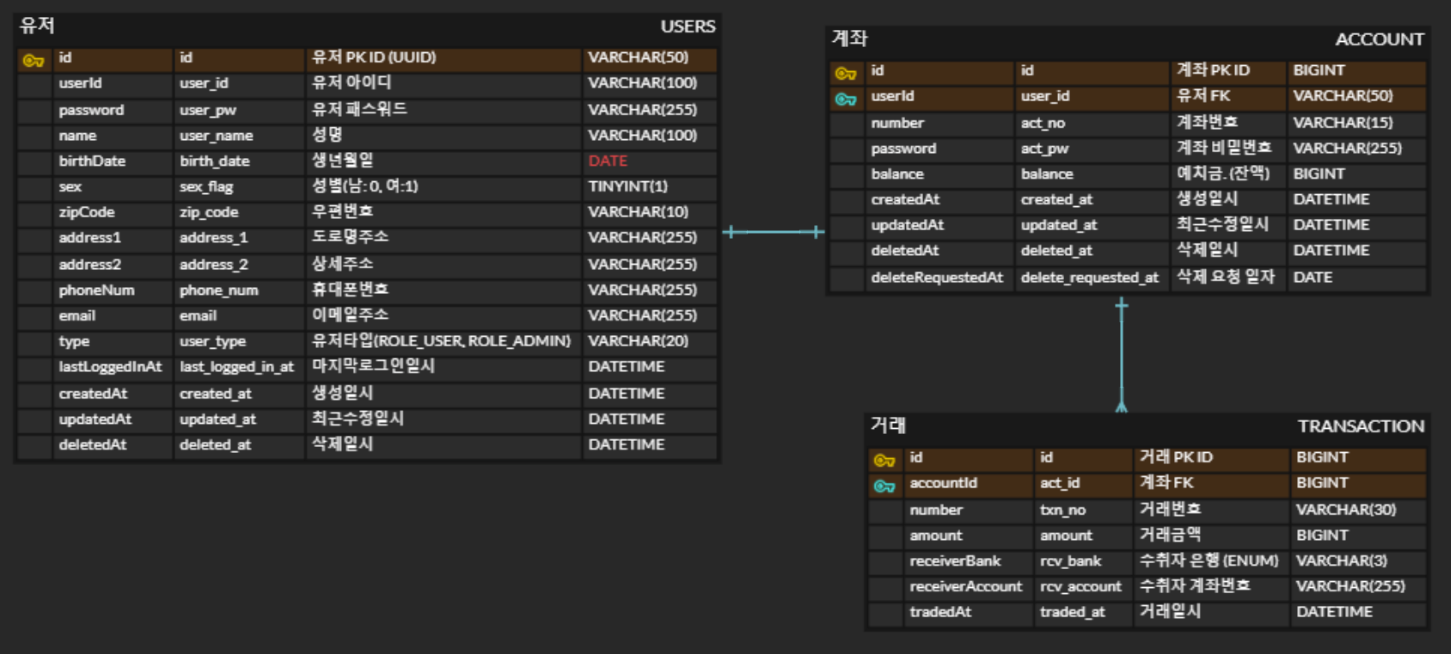
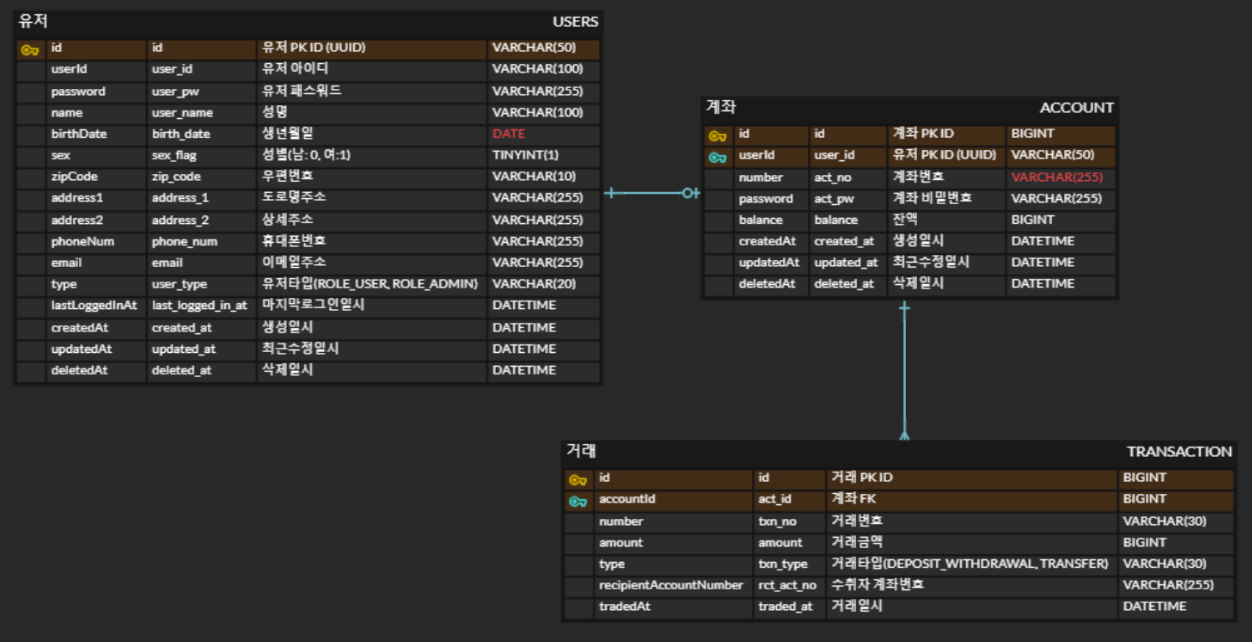
Add API specification for added Account service (#12)

Changed region(s): [[0.0, 0.0, 0.9968, 0.9657], [0.5919, 0.6231, 0.623, 0.6542], [0.5607, 0.0312, 0.5919, 0.0623]]

diff --git a/docs/API_Specification.md b/docs/API_Specification.md
@@ -48,7 +48,7 @@ API의 자세한 정보를 보고 싶다면, 각 API 좌측에 위치한 토글 
   - 없음
 - 요청/응답 구조
   - 요청
-  ```json
+  ```
   GET /api/v1/sign-up/check-id?key={userId}
   "userId": "testerid"
     ```
@@ -148,7 +148,7 @@ API의 자세한 정보를 보고 싶다면, 각 API 좌측에 위치한 토글 
 ### 검토한 정보
 ```
 - POST /api/v1/sign-up
-- 파라미터: 아이디, 패스워드, 성명, 생년월일(yyyy-MM-dd), 도로명주소, 상세주소, 휴대폰번호, 이메일주소
+- 파라미터: 아이디, 패스워드, 성명, 생년월일(yyyy-MM-dd), 성별, 도로명주소, 상세주소, 휴대폰번호, 이메일주소
 - 정책
   - 실패 응답 정책
     - 아이디가 이미 존재하는 경우 -> 400 BadRequest
@@ -164,7 +164,7 @@ API의 자세한 정보를 보고 싶다면, 각 API 좌측에 위치한 토글 
 
 ### 상세 검토
 - 저장이 필요한 정보
-  - USER 엔티티 (아이디, 패스워드, 성명, 생년월일, 도로명주소, 상세주소, 휴대폰번호, 이메일주소)
+  - USER 엔티티 (아이디, 패스워드, 성명, 생년월일, 성별, 도로명주소, 상세주소, 휴대폰번호, 이메일주소)
   - USER.생성일시 -> 서버 현재시간
   - USER.휴대폰번호 -> encrypt
 - 요청/응답 구조
@@ -175,6 +175,7 @@ API의 자세한 정보를 보고 싶다면, 각 API 좌측에 위치한 토글 
     "password": "test1234!",
     "userName": "tester",
     "birthDate": "1997-01-01",
+    "sex": false, // false: male, true: female
     "address1": "서울특별시 강남구 도산대로 18길",
     "address2": "10001호",
     "phoneNum": "01012341234",
@@ -226,6 +227,227 @@ API의 자세한 정보를 보고 싶다면, 각 API 좌측에 위치한 토글 
       "accessToken": "Bearer token",
       "refreshToken": "Bearer token",
       "lastLoggedInAt": "2023-07-01T12:12:00.123123"
+    }
+    ```
+</details>
+
+## 계좌 관련 API
+
+<!-- 계좌 생성 API -->
+<br>
+<details>
+<summary style="font-size: large; font-weight: bold">계좌 생성 API</summary>
+
+### 검토한 정보
+```
+- POST /api/v1/accounts
+- 파라미터: 액세스 토큰, 계좌 비밀번호, 초기 예치금 
+- 정책
+  - 실패 응답 정책
+    - 액세스토큰이 없거나 유효하지 않은 경우 -> 401 Unauthorized
+    - 탈퇴된 유저인 경우 -> 401 Unauthorized
+    - 파라미터(계좌 비밀번호)가 없는 경우 -> 400 BadRequest
+    - 계좌 비밀번호가 4자리의 숫자가 아닌 경우 -> 400 BadRequest
+    - 계좌 비밀번호가 중복된 수가 나열되어 있는 경우 -> 400 BadRequest
+    - 해당 유저가 이미 계좌를 보유하고 있는 경우 -> 400 BadRequest
+- 성공 응답: 유저정보(성명, 휴대폰번호, 이메일, 생성일시), 계좌정보(계좌번호, 잔액, 생성일시)
+```
+
+### 상세 검토
+- 저장이 필요한 정보
+  - 계좌번호 생성 (14자리 랜덤 수)
+  - 계좌비밀번호 암호화
+  - ACCOUNT 엔티티 (계좌번호, 계좌비밀번호, 잔액, 생성일시, 최근수정일시)
+- 요청/응답 구조
+  - 요청
+    ```json
+    // HEADER
+    {
+      "Authorization": "Bearer access_token"
+    }
+    // BODY
+    {
+      "accountPassword": "1234",
+      "initialBalance": 10000
+    }
+    ```
+  - 응답
+    ```json
+    {
+      "user": {
+        "name": "테스터",
+        "phoneNum": "01012341234",
+        "email": "tester@test.com",
+        "createdAt": "2023-07-01T12:12:00.123123"
+      },
+      "account": {
+        "number": "12345678901234",
+        "balance": 10000,
+        "createdAt": "2023-07-01T12:12:00.123123"
+      }
+    }
+    ```
+</details>
+
+<!-- 계좌 삭제 API -->
+<br>
+<details>
+<summary style="font-size: large; font-weight: bold">계좌 삭제 API</summary>
+
+### 검토한 정보
+```
+- DELETE /api/v1/accounts
+- 파라미터: 액세스토큰, 계좌번호, 계좌비밀번호
+- 정책
+  - 실패 응답 정책
+    - 액세스토큰이 없거나 유효하지 않은 경우 -> 401 Unauthorized
+    - 이미 탈퇴된 유저인 경우 -> 401 Unauthorized
+    - 파라미터(계좌번호, 계좌비밀번호)가 없는 경우 -> 400 BadRequest
+    - 해당 유저의 계좌의 계좌번호와 요청 계좌번호가 일치하지 않는 경우 -> 403 Forbidden
+    - 해당 유저의 계좌의 계좌비밀번호와 요청 계좌비밀번호가 일치하지 않는 경우 -> 403 Forbidden
+    - 해당 유저의 계좌의 잔액이 0원이 초과할 경우 -> 400 BadRequest
+    - 이미 삭제된 계좌인 경우 -> 404 NotFound
+- 성공 응답: 계좌정보(계좌번호, 생성일시, 삭제일시) 
+```
+
+### 상세 검토
+- 저장이 필요한 정보
+  - ACCOUNT.삭제일시 -> 서버 현재시간
+- 요청/응답 구조
+  - 요청
+    ```json
+    // HEADER
+    {
+      "Authorization": "Bearer access_token"
+    }
+    // BODY
+    {
+      "accountNumber": "12345678901234",
+      "accountPassword": "1234"
+    }
+    ```
+  - 응답
+    ```json
+    {
+      "accountNumber": "12345678901234",
+      "createdAt": "2023-07-01T12:12:00.123123",
+      "deletedAt": "2023-07-01T12:12:00.123123"
+    }
+    ```
+</details>
+
+<!-- 계좌 입금 API -->
+<br>
+<details>
+<summary style="font-size: large; font-weight: bold">계좌 입금 API</summary>
+
+### 검토한 정보
+```
+- POST /api/v1/deposit
+- 파라미터: 액세스토큰, 계좌번호, 입금액
+- 정책
+  - 실패 응답 정책
+    - 액세스토큰이 없거나 유효하지 않은 경우 -> 401 Unauthorized
+    - 이미 탈퇴된 유저인 경우 -> 401 Unauthorized
+    - 파라미터(계좌번호, 입금액)을 입력하지 않은 경우 -> 400 BadRequest
+    - 입금액이 0원 이하인 경우 -> 400 BadRequest
+    - 해당 유저가 계좌를 보유하고 있지 않은 경우 -> 404 NotFound
+    - 해당 유저의 계좌의 계좌번호와 요청 계좌번호가 일치하지 않는 경우 -> 403 Forbidden
+- 성공 응답: 계좌정보(계좌번호, 잔액, 생성일시, 수정일시), 거래정보(거래번호, 거래금액, 거래타입, 거래일시)
+```
+
+### 상세 검토
+- 저장이 필요한 정보
+  - 거래번호 생성 -> 영어+숫자 조합 랜덤 20자리
+  - TRANSACTION 엔티티 (거래번호, 거래금액, 거래타입(DEPOSIT), 수취자 계좌번호(요청자), 거래일시)
+  - ACCOUNT.잔액 -> + 입금액
+- 요청/응답 구조
+  - 요청
+    ```json
+    // HEADER
+    {
+      "Authorization": "Bearer access_token"
+    }
+    // BODY
+    {
+      "accountNumber": "12345678901234",
+      "amount": 10000
+    }
+    ```
+  - 응답
+    ```json
+    {
+      "account": {
+        "number": "12345678901234",
+        "balance": 10000,
+        "createdAt": "2023-07-01T12:12:00.123123",
+        "updatedAt": "2023-07-01T12:12:00.123123"
+      },
+      "transaction": {
+        "number": "ABCDEFGHIJ1234567890",
+        "amount": 10000,
+        "type": "DEPOSIT",
+        "tradedAt": "2023-07-01T12:12:00.123123"
+      }
+    }
+    ```
+</details>
+
+<!-- 계좌 출금 API -->
+<br>
+<details>
+<summary style="font-size: large; font-weight: bold">계좌 출금 API</summary>
+
+### 검토한 정보
+```
+- POST /api/v1/withdrawal
+- 파라미터: 액세스토큰, 계좌번호, 계좌비밀번호, 출금액
+- 정책
+  - 실패 응답 정책
+    - 액세스토큰이 없거나 유효하지 않은 경우 -> 401 Unauthorized
+    - 이미 탈퇴된 유저인 경우 -> 401 Unauthorized
+    - 파라미터(계좌번호, 계좌비밀번호, 출금액)을 입력하지 않은 경우 -> 400 BadRequest
+    - 출금액이 0원 이하인 경우 -> 400 BadRequest
+    - 해당 유저가 계좌를 보유하고 있지 않은 경우 -> 404 NotFound
+    - 해당 유저의 계좌의 계좌번호와 요청 계좌번호가 일치하지 않는 경우 -> 403 Forbidden
+    - 해당 유저의 계좌의 계좌비밀번호와 요청 계좌비밀번호가 일치하지 않는 경우 -> 403 Forbidden
+- 성공 응답: 계좌정보(계좌번호, 잔액, 생성일시, 수정일시), 거래정보(거래번호, 거래금액, 거래타입, 거래일시)
+```
+
+### 상세 검토
+- 저장이 필요한 정보
+  - 거래번호 생성 -> 영어+숫자 조합 랜덤 20자리
+  - TRANSACTION 엔티티 (거래번호, 거래금액, 거래타입(WITHDRAWAL), 수취자 계좌번호(요청자), 거래일시)
+  - ACCOUNT.잔액 -> - 출금액
+- 요청/응답 구조
+  - 요청
+    ```json
+    // HEADER
+    {
+      "Authorization": "Bearer access_token"
+    }
+    // BODY
+    {
+      "accountNumber": "12345678901234",
+      "accountPassword": "1234",
+      "amount": 10000
+    }
+    ```
+  - 응답
+    ```json
+    {
+      "account": {
+        "number": "12345678901234",
+        "balance": 0,
+        "createdAt": "2023-07-01T12:12:00.123123",
+        "updatedAt": "2023-07-01T12:12:00.123123"
+      },
+      "transaction": {
+        "number": "ABCDEFGHIJ1234567890",
+        "amount": 10000,
+        "type": "WITHDRAWAL",
+        "tradedAt": "2023-07-01T12:12:00.123123"
+      }
     }
     ```
 </details>
